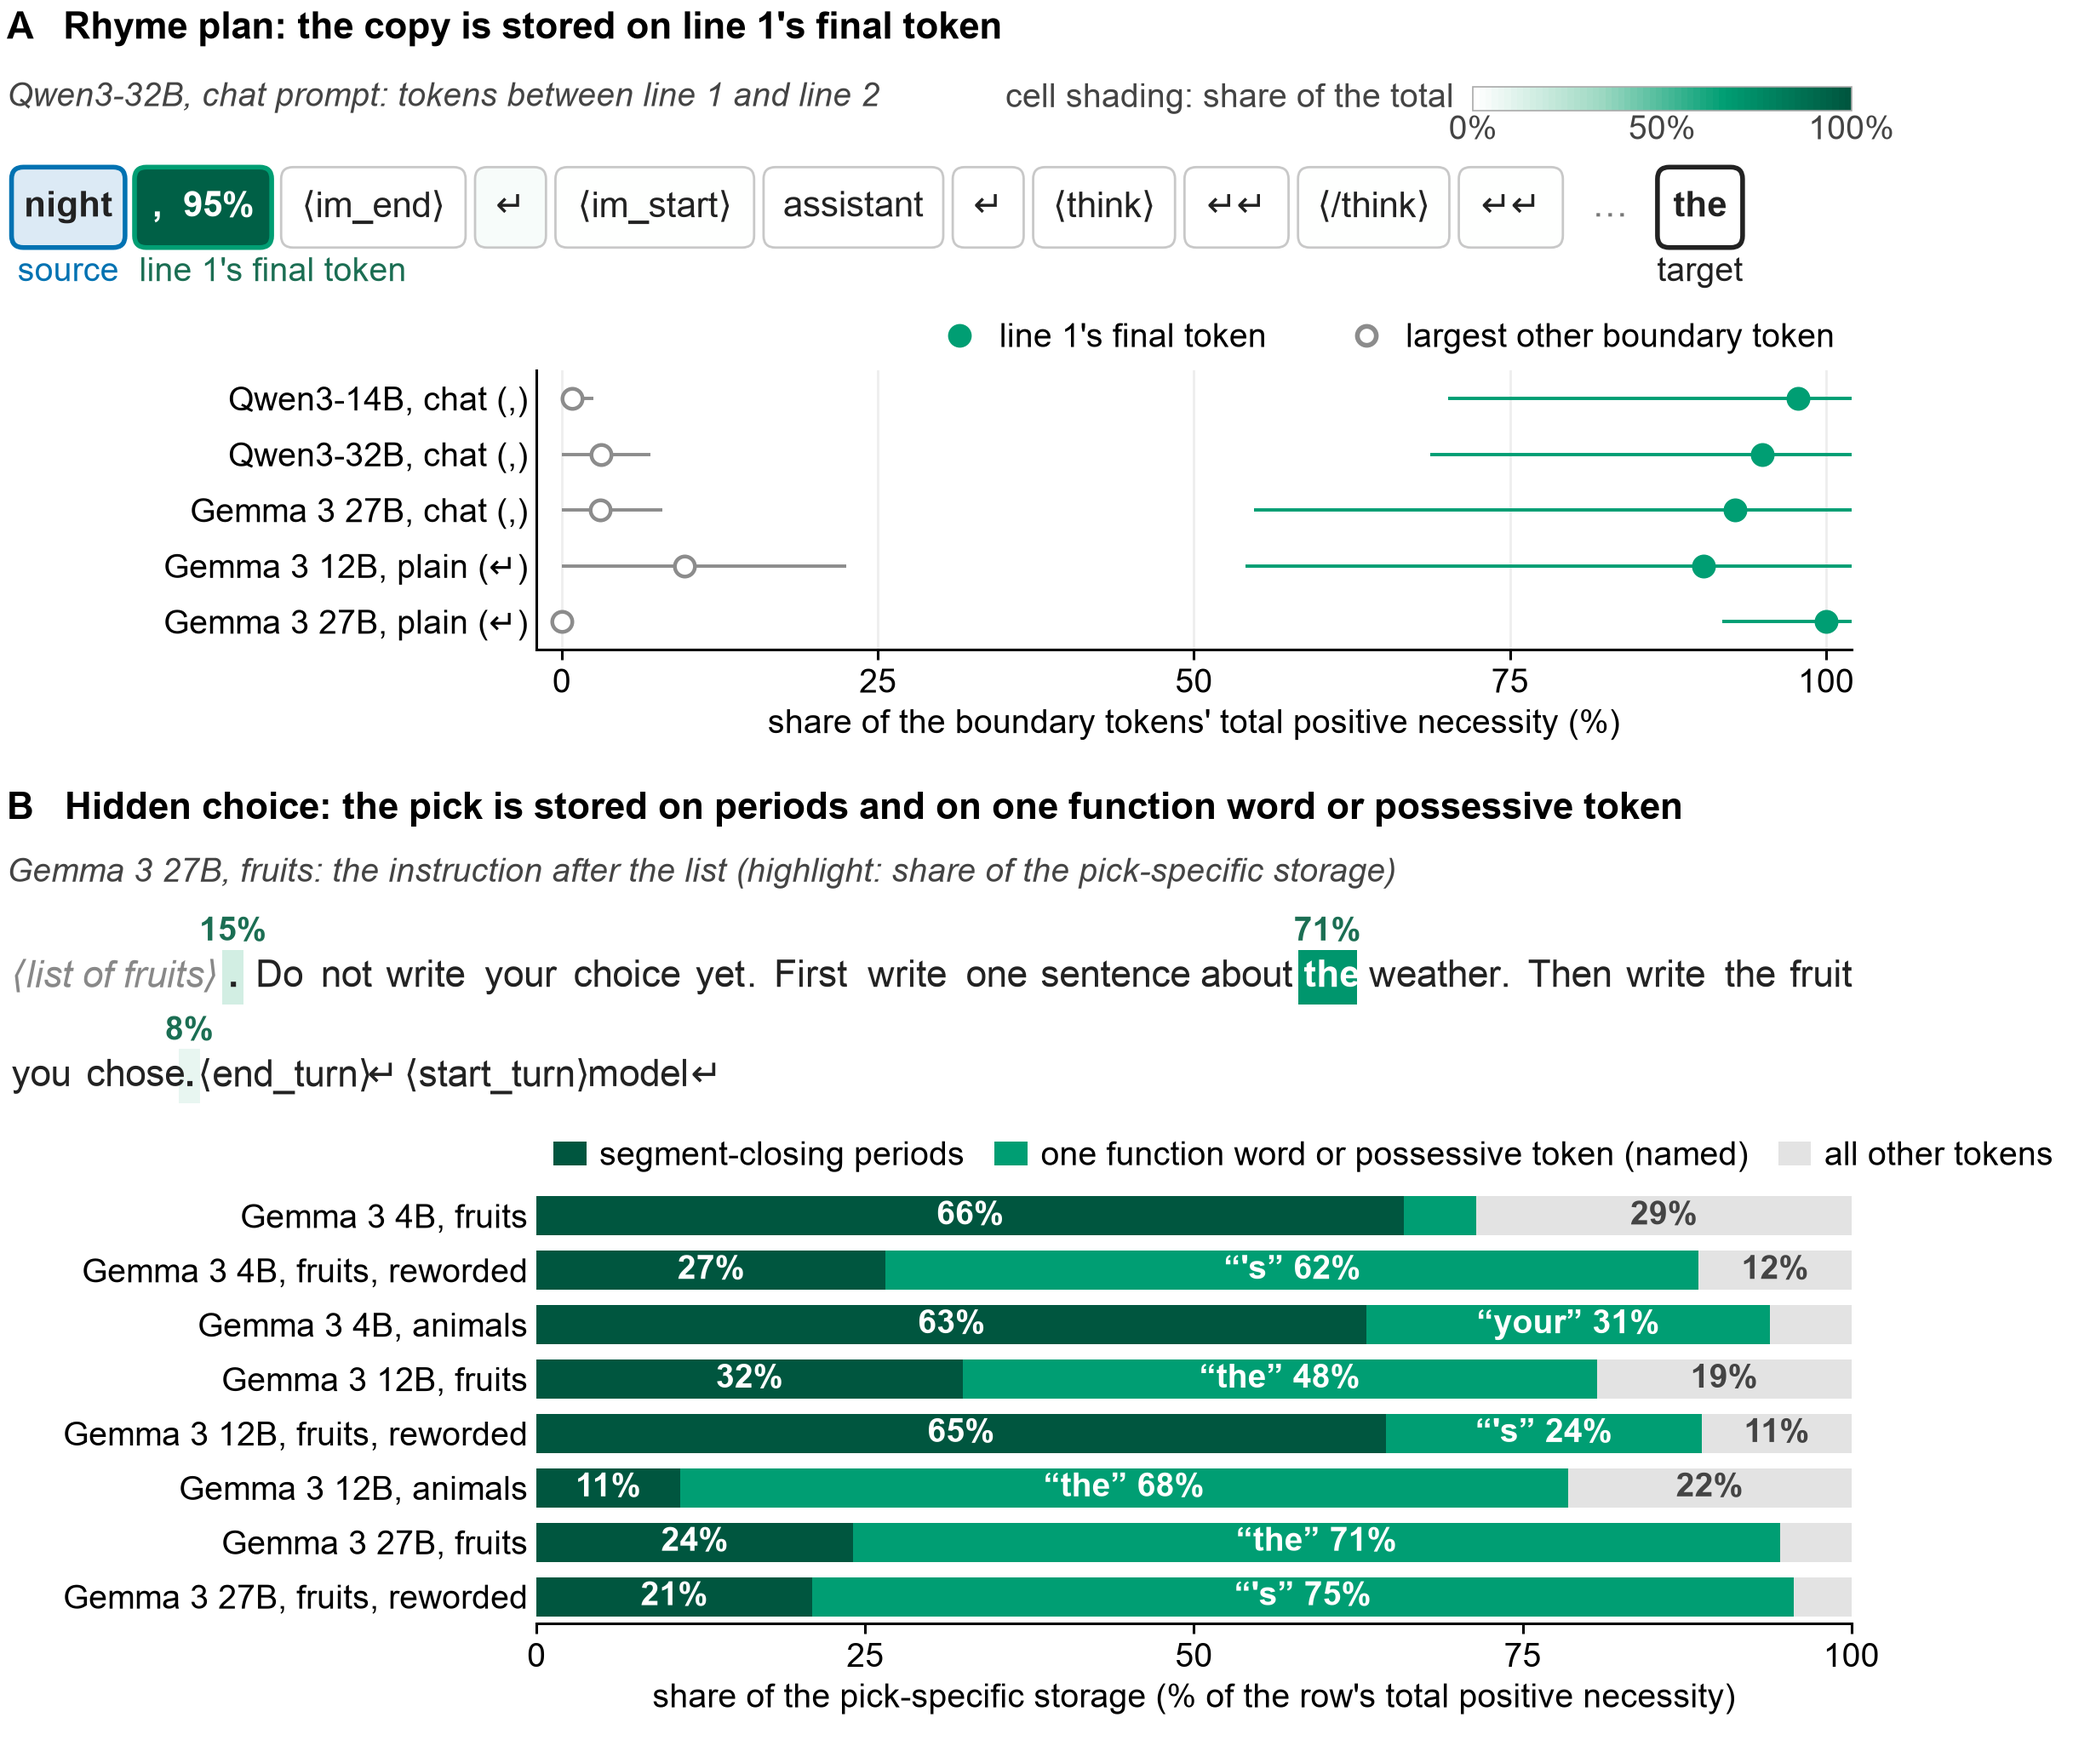
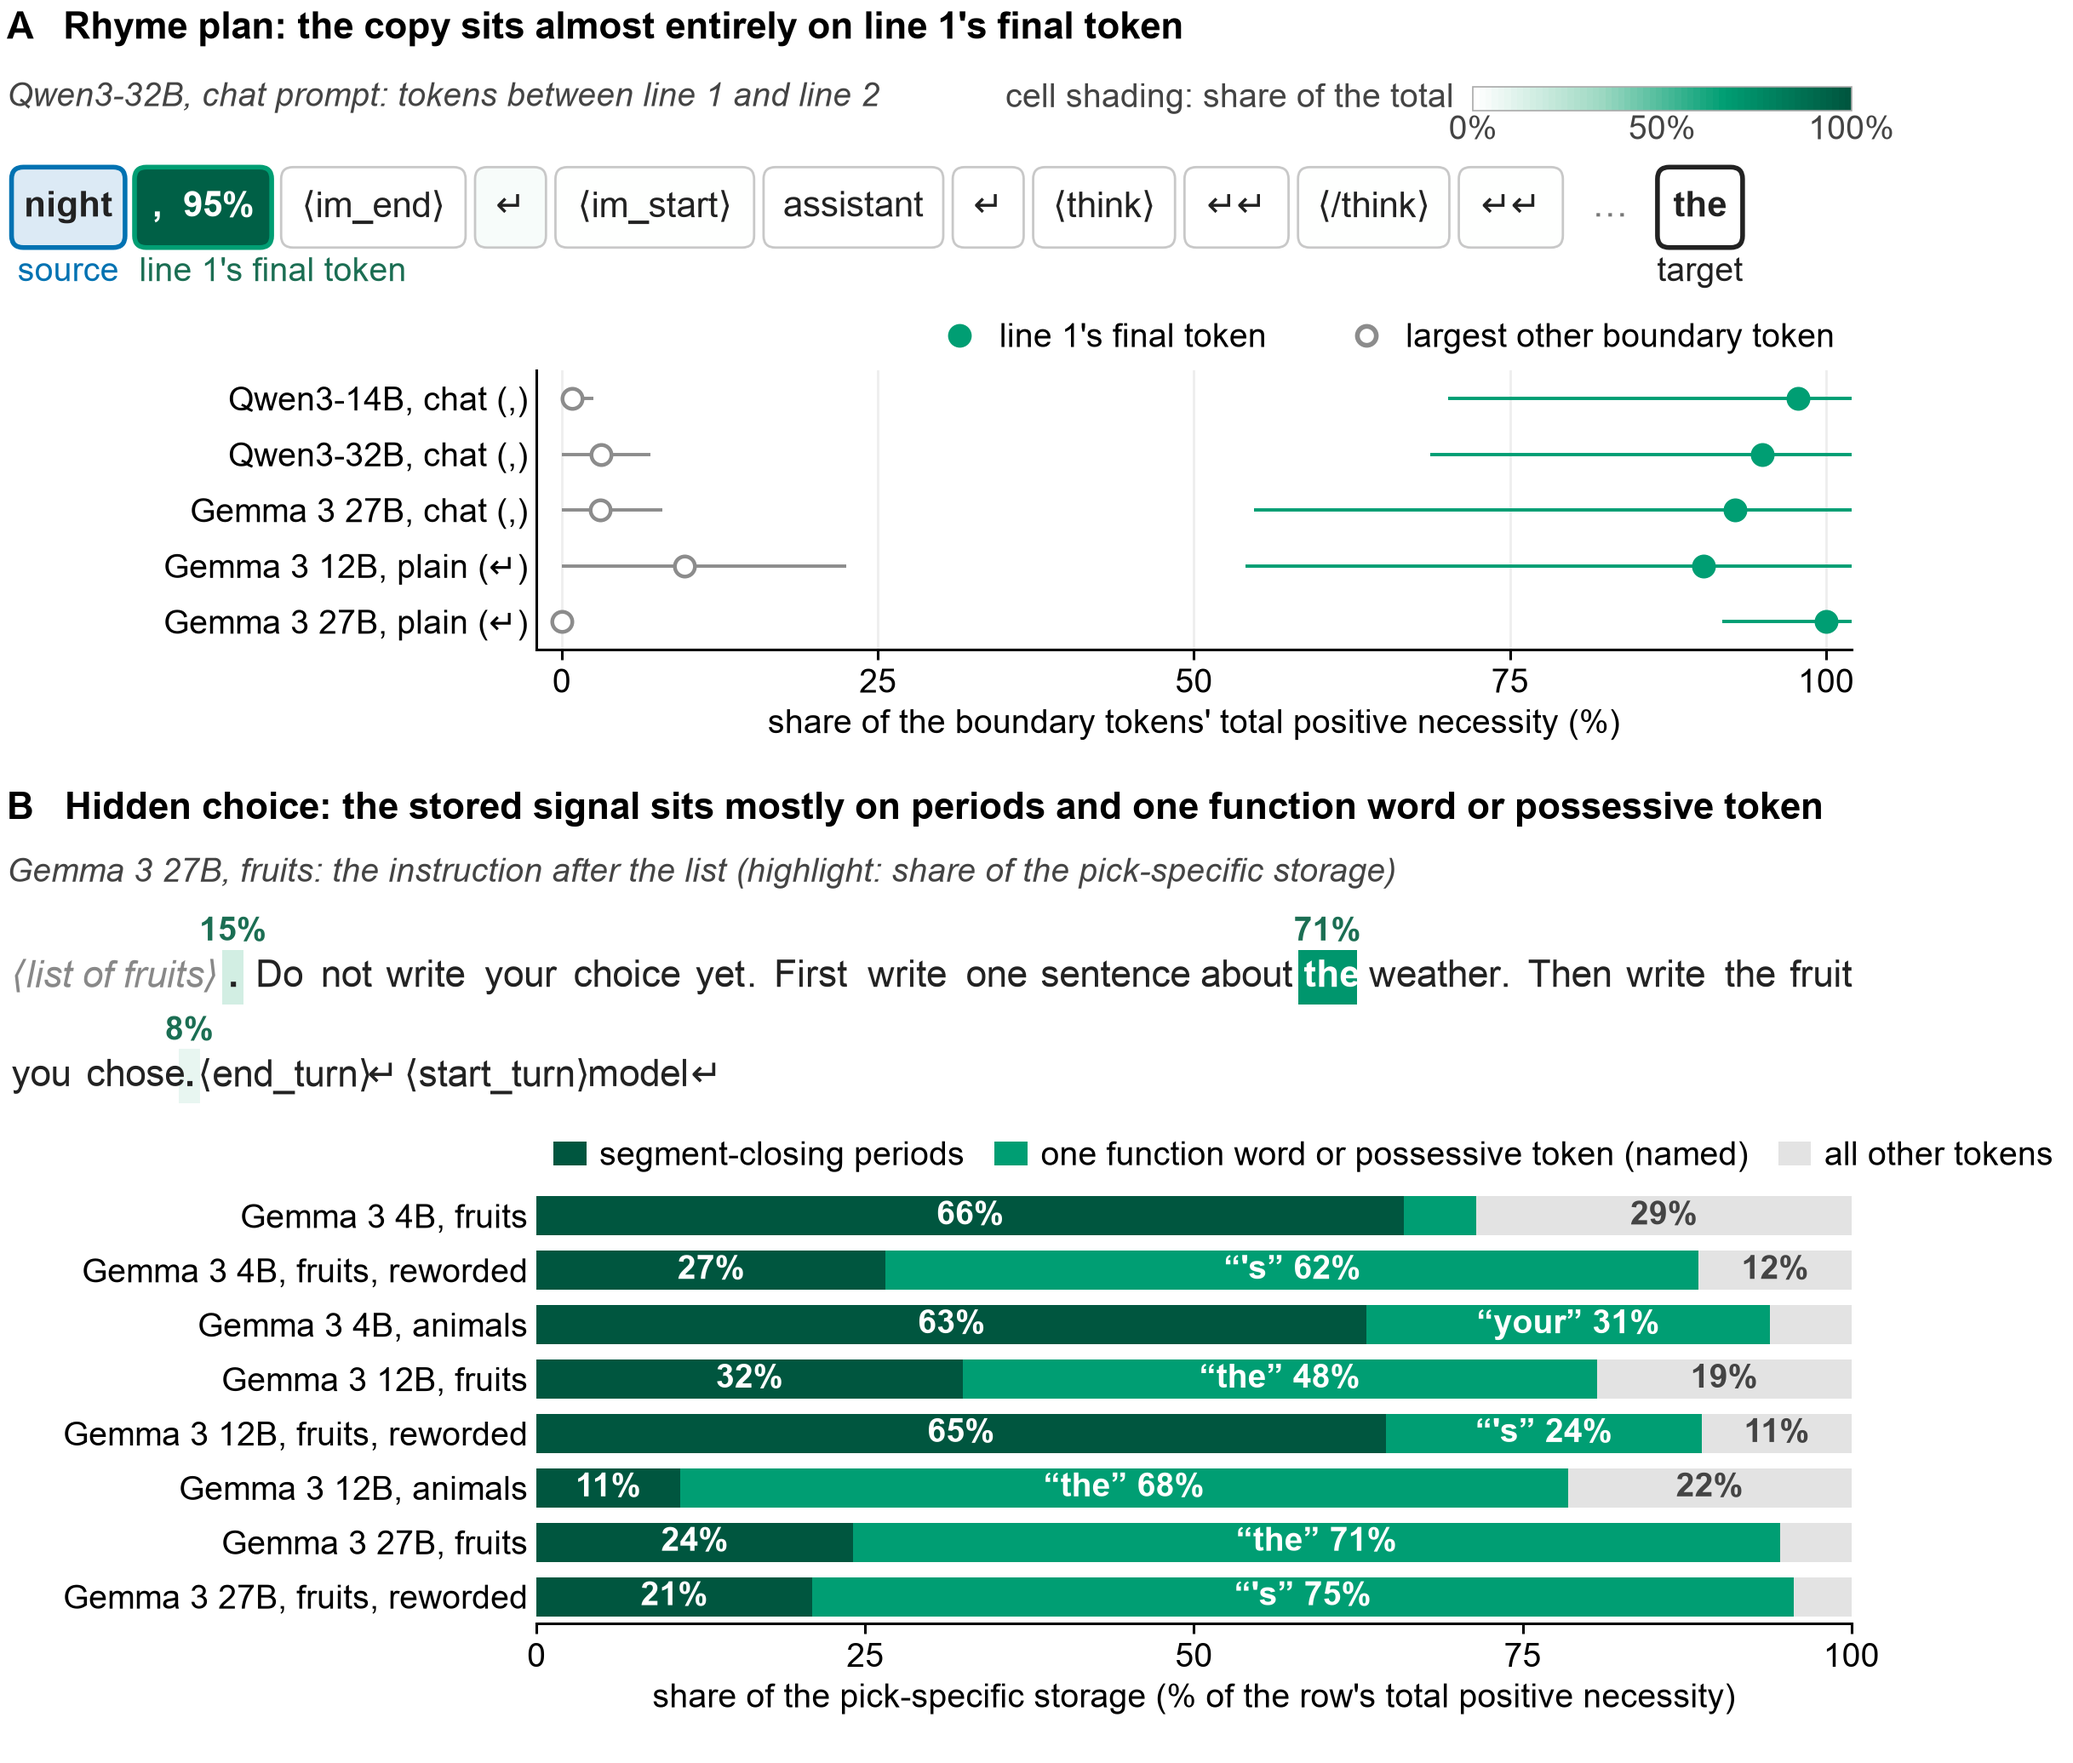
Headers and headline claims made descriptive and exact (final token 90-100%, copy from 12-14B, base checkpoints 'most likely' pretraining)

Changed region(s): [[0.1873, 0.4326, 0.8739, 0.4635], [0.2185, 0.0, 0.5618, 0.0309]]

diff --git a/manuscript/figures/make_iclr_figures.py b/manuscript/figures/make_iclr_figures.py
@@ -537,7 +537,7 @@ def fig2():
           Line2D([], [], ls="none", marker="*", ms=6, color=COL["ink"])]
     bx.legend(hs, ["sufficiency (patched in)", "necessity (patched out)", "base checkpoint"], loc="upper left",
               handletextpad=0.2, labelspacing=0.2, borderaxespad=0.1)
-    fig.text(0.0, bx.get_position().y1 + 0.035, "B   A stored copy at the line's final token emerges with scale",
+    fig.text(0.0, bx.get_position().y1 + 0.035, "B   A stored copy at the line's final token appears from about 12 to 14B parameters",
              fontsize=8, weight="bold", va="bottom")
     save(fig, "iclr_fig2_couplet_routes.png")
 
@@ -763,7 +763,7 @@ def fig3():
         return fig.add_axes([x0 / Wpt, 1 - (y0 + h) / Hpt, w / Wpt, h / Hpt])
 
     colourbar_pts(bg, Wpt - 86, 17.0, label="cell shading: share of the total")
-    bg.text(0, 1, "A   Rhyme plan: the copy is stored on line 1's final token", fontsize=8, weight="bold",
+    bg.text(0, 1, "A   Rhyme plan: the copy sits almost entirely on line 1's final token", fontsize=8, weight="bold",
             va="top")
     # One annotated example: Qwen3-32B, chat prompt.
     ex = load(CR / "Qwen3-32B" / "relay_boundary_summary.json")
@@ -845,7 +845,7 @@ def fig3():
         y += hA + 26
     # B. The hidden-choice instruction once, with its storage tokens highlighted.
     y += 4
-    bg.text(0, y, "B   Hidden choice: the pick is stored on periods and on one function word or possessive token",
+    bg.text(0, y, "B   Hidden choice: the stored signal sits mostly on periods and one function word or possessive token",
             fontsize=8, weight="bold", va="top")
     y += 14
     fr, fa, an = ("choice_replicate_fruits_localize_summary.json", "choice_replicate_fruits_localize_alt_summary.json",
